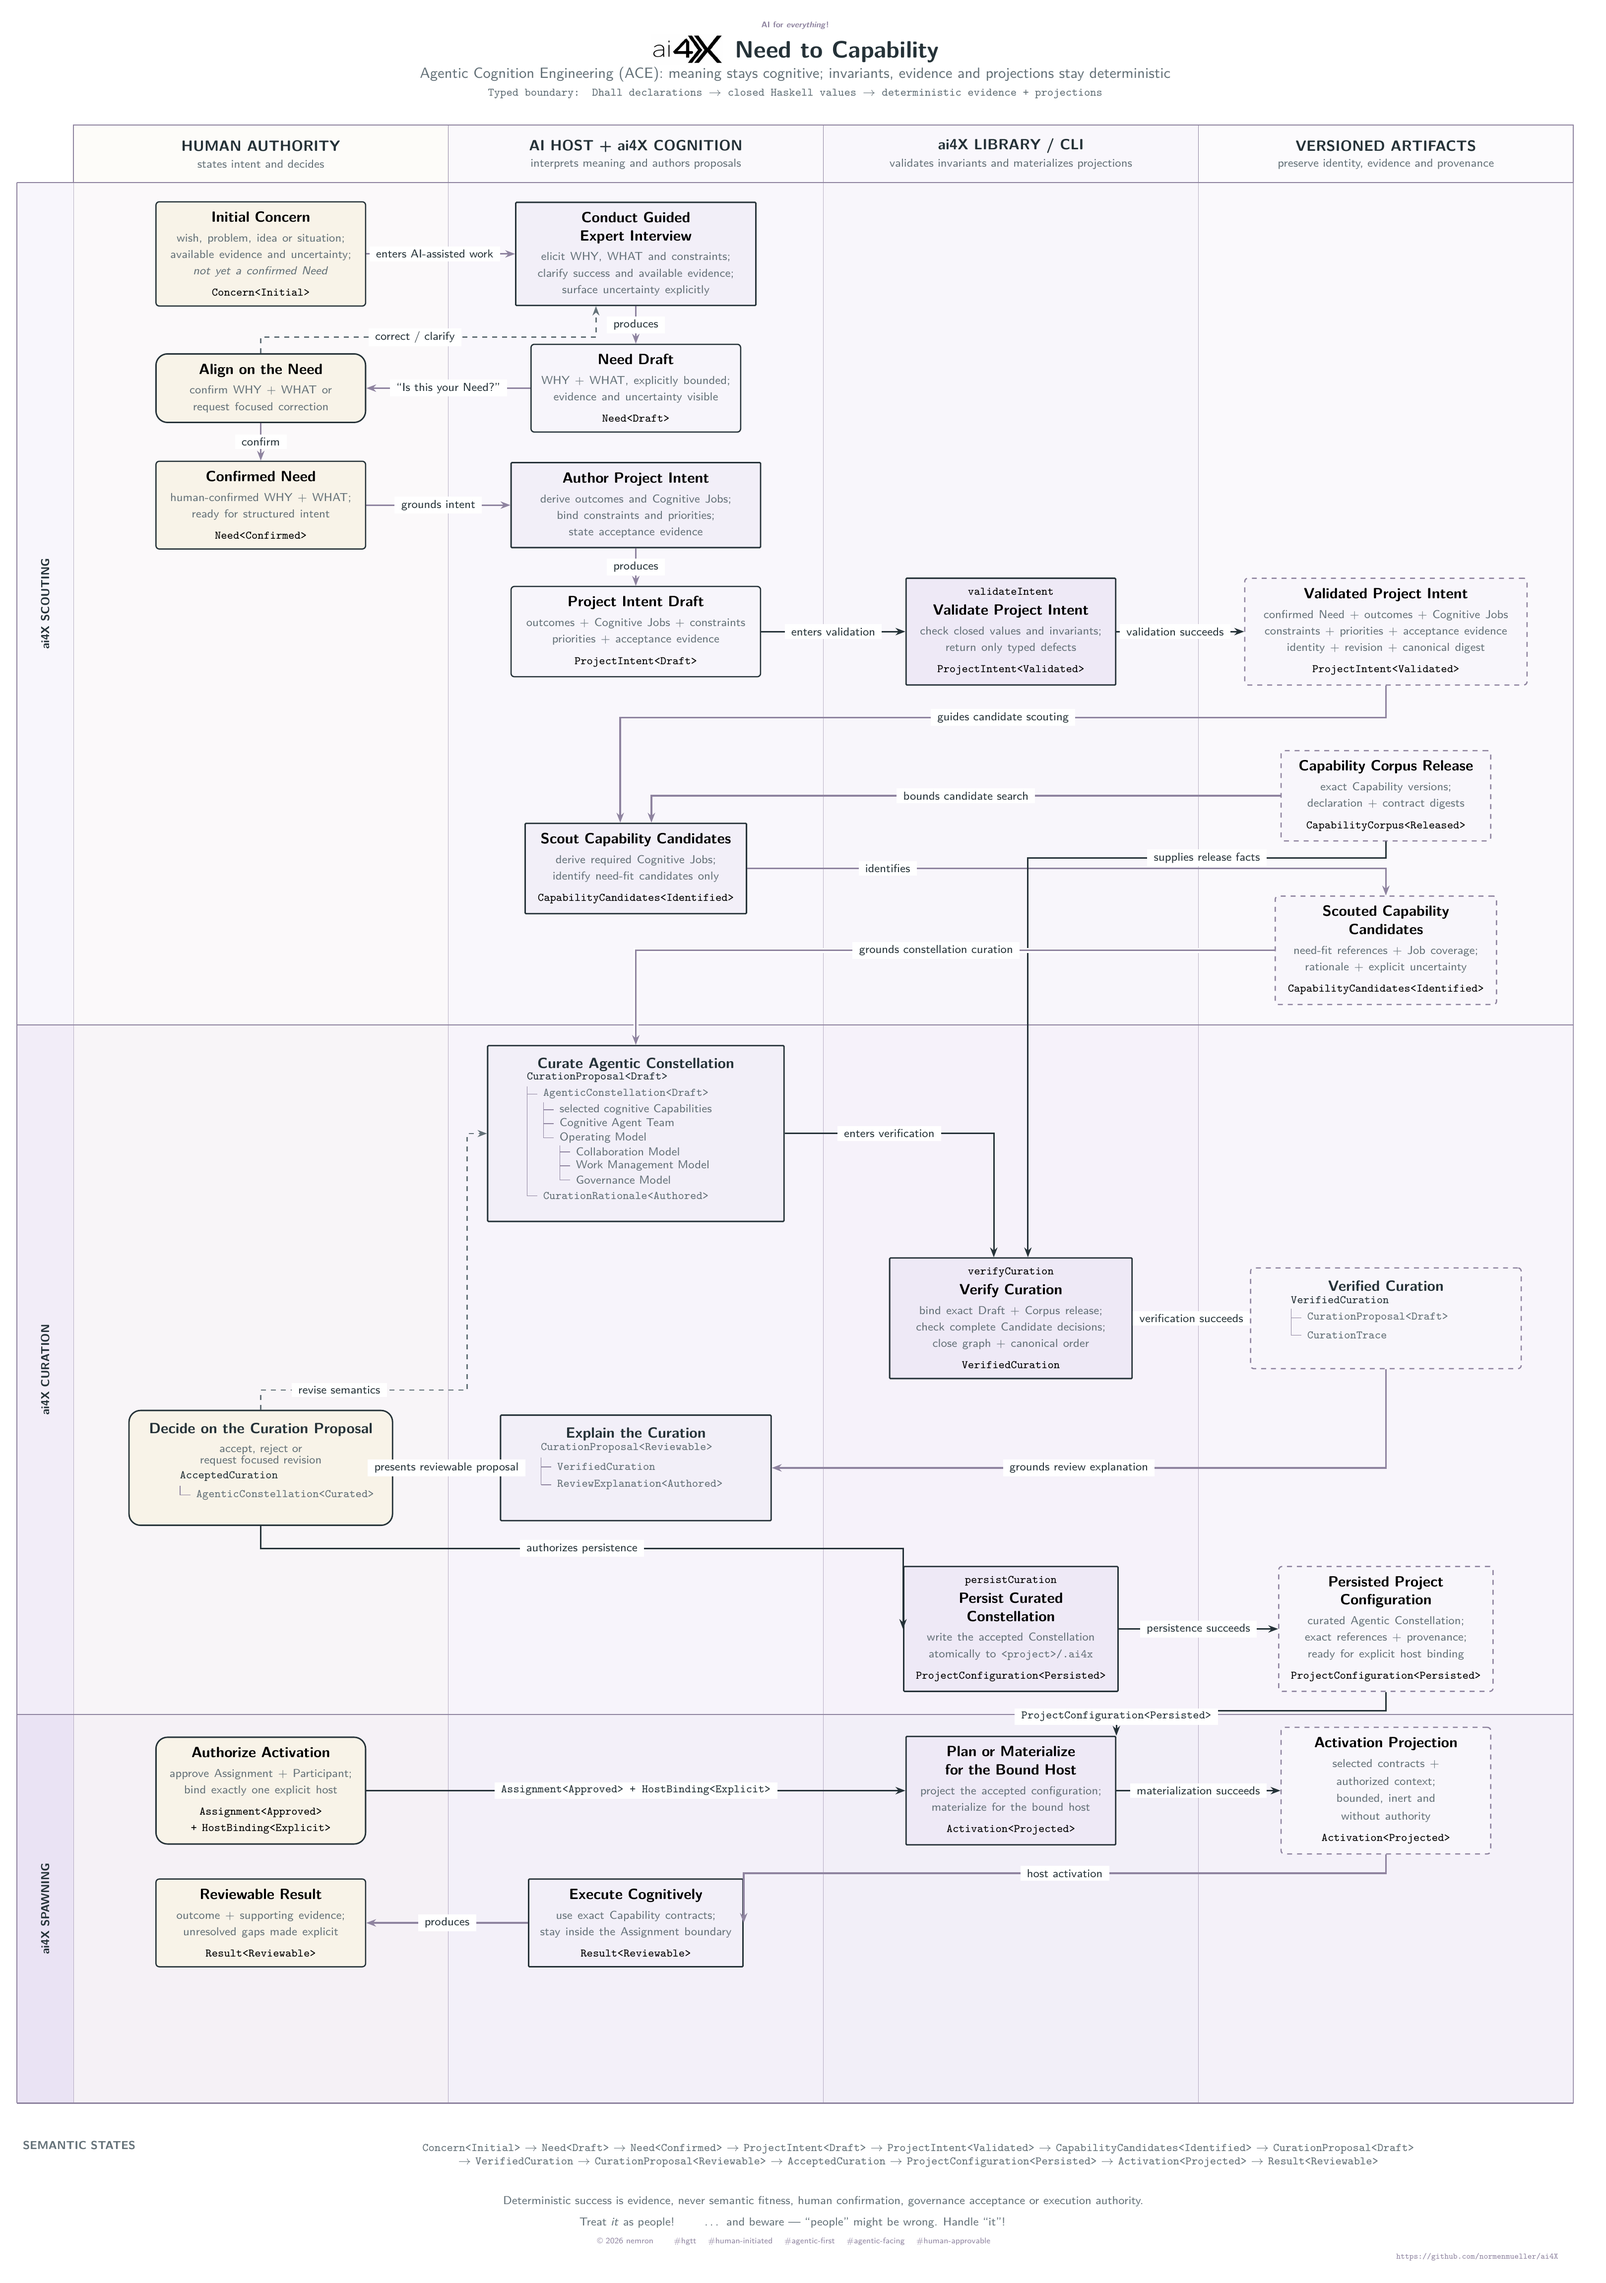
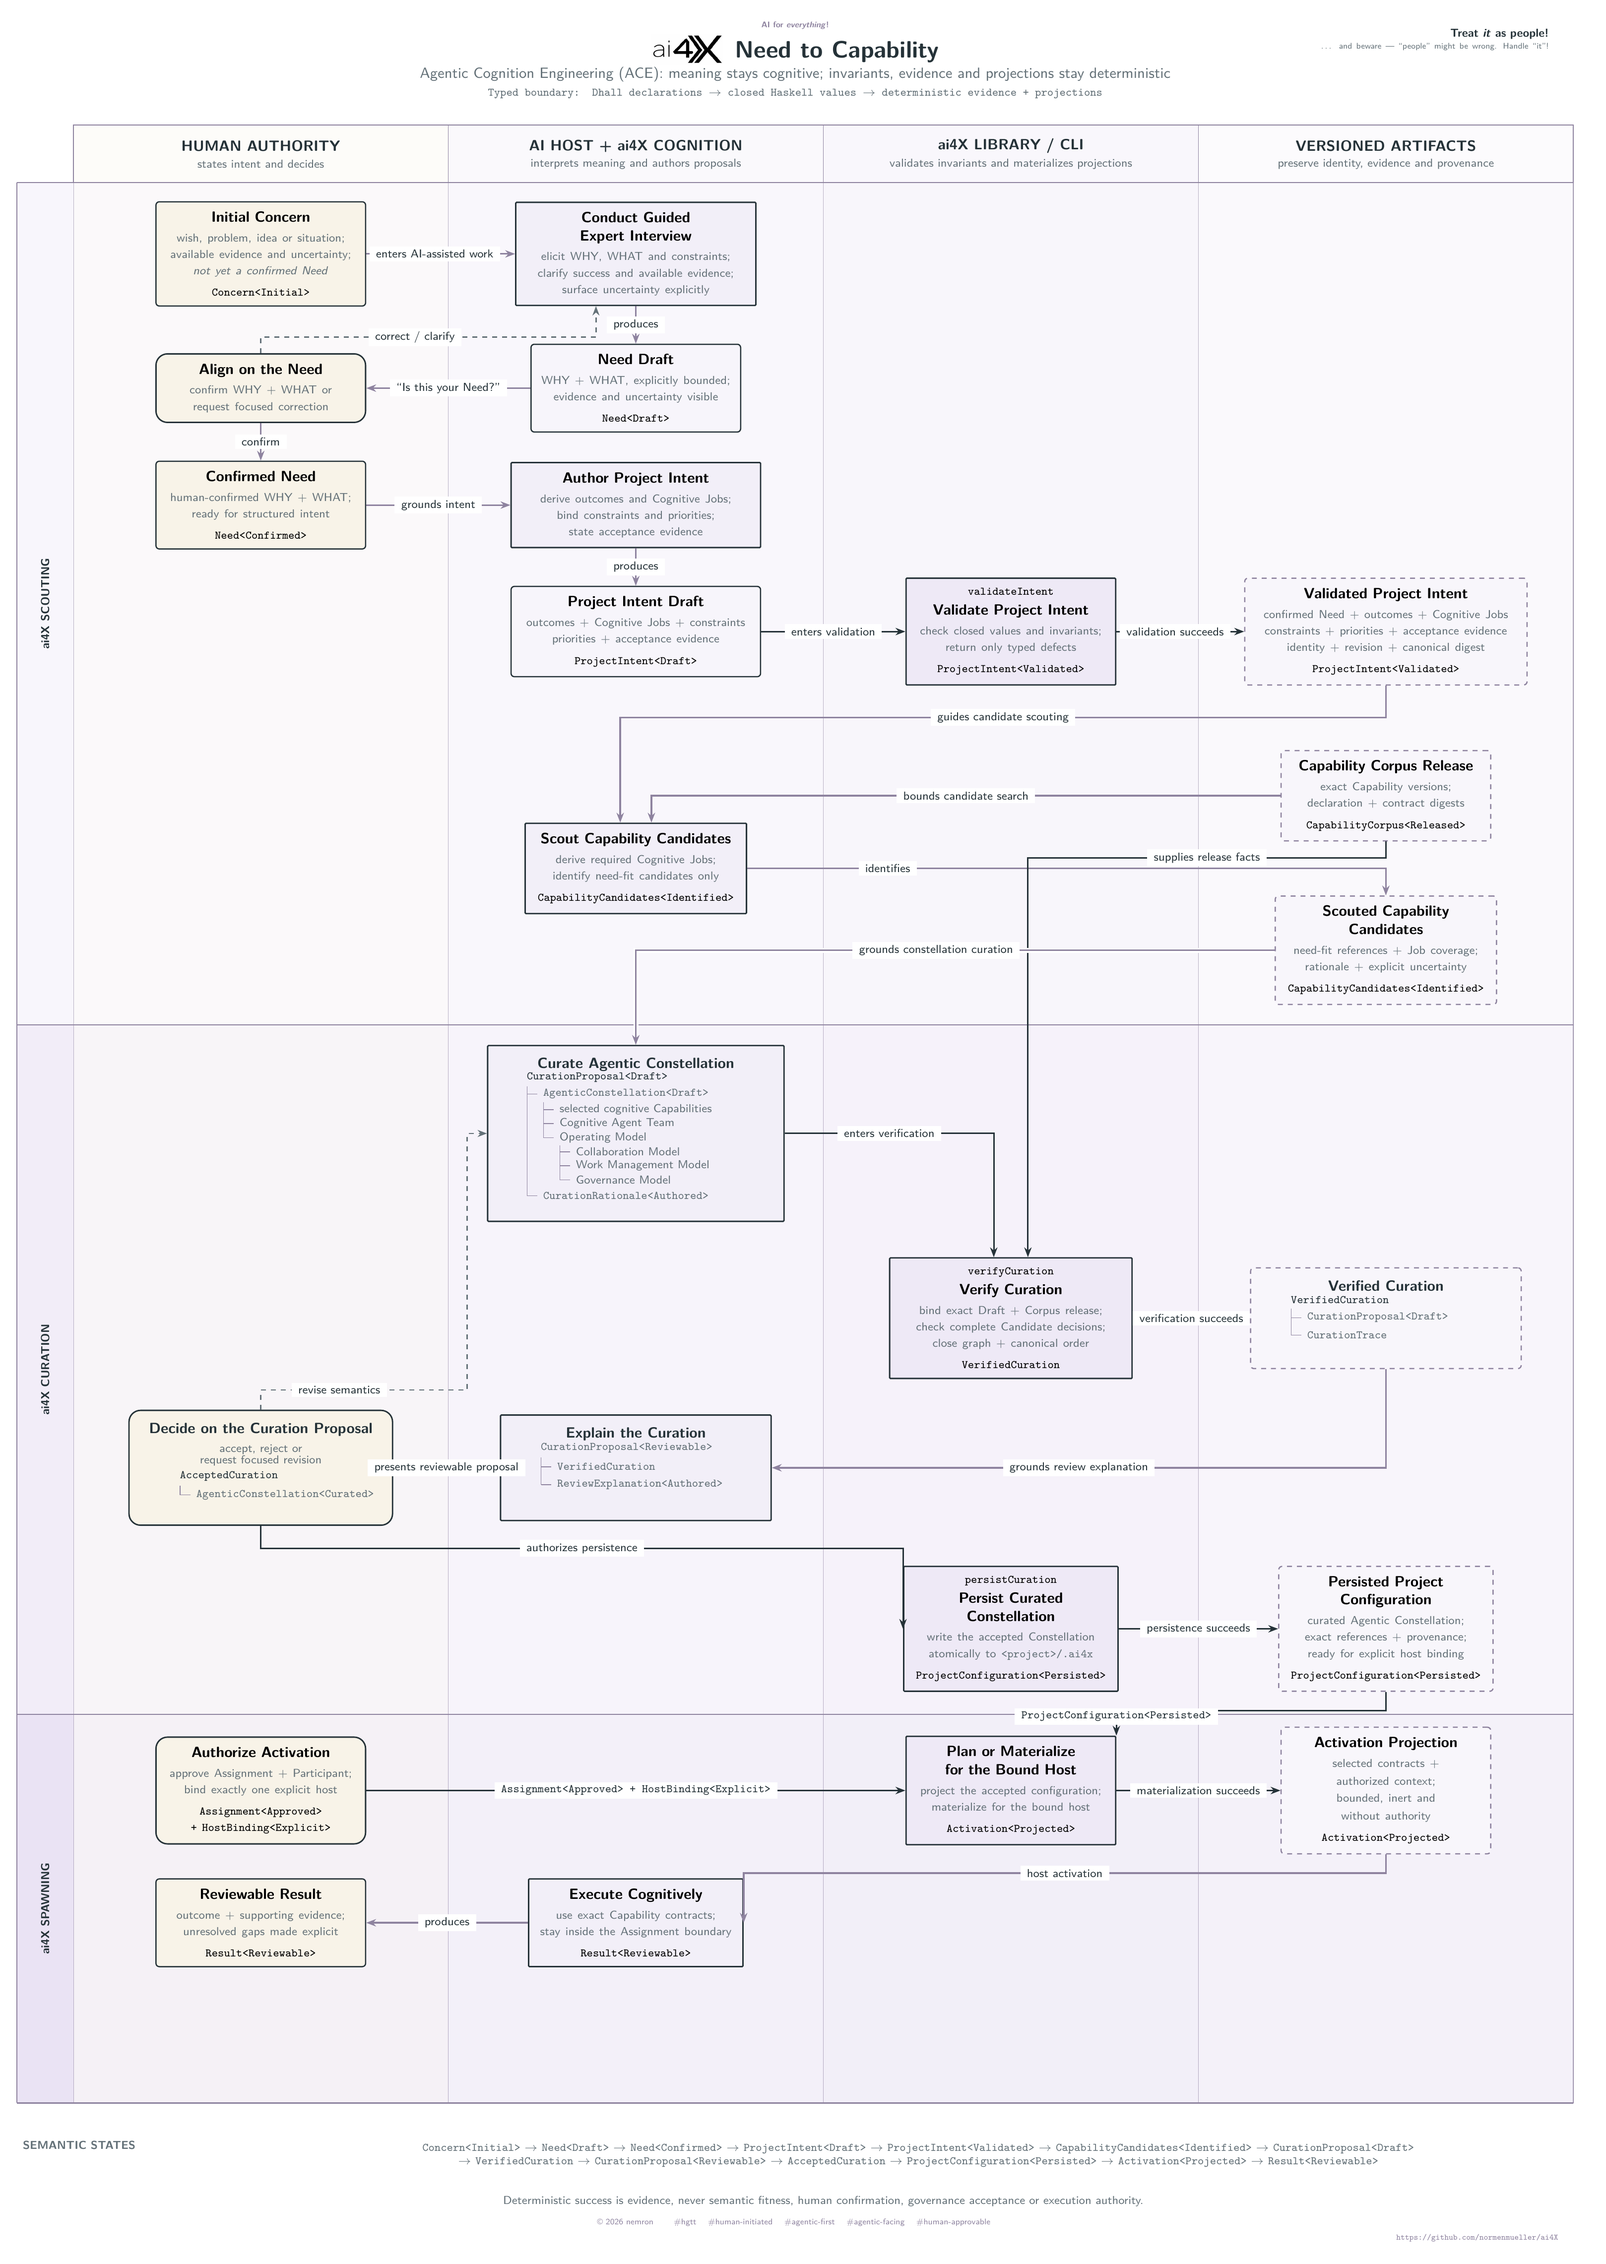
docs(diagram): position project maxim and preserve USP projection

diff --git a/doc/diagrams/need-to-capability.tex b/doc/diagrams/need-to-capability.tex
@@ -86,6 +86,16 @@
 
 \node[font=\sffamily\tiny\bfseries, text=aaccent] at (11.40,2.57)
   {AI for \textit{everything}!};
+\node[
+  font=\sffamily\scriptsize,
+  text=amuted,
+  text width=8.80cm,
+  align=right,
+  anchor=north east
+] at (27.60,2.62) {
+  \textcolor{aink}{\textbf{Treat \textit{it} as people!}}\\[-1pt]
+  {\tiny \ldots{} and beware --- ``people'' might be wrong. Handle ``it''!}
+};
 \node[inner sep=0pt, font=\sffamily\Large\bfseries, text=aink]
   at (11.40,2.07) {
     \raisebox{-0.13cm}{%
@@ -602,16 +612,12 @@
   Deterministic success is evidence, never semantic fitness, human confirmation,
   governance acceptance or execution authority.
 };
-\node[font=\sffamily\scriptsize, text=amuted, align=center] at (11.40,-44.30) {
-  Treat \textit{it} as people! \qquad
-  \ldots{} and beware --- ``people'' might be wrong. Handle ``it''!
-};
-\node[font=\sffamily\tiny, text=aaccent, align=center] at (11.40,-44.70) {
+\node[font=\sffamily\tiny, text=aaccent, align=center] at (11.40,-44.30) {
   \textcopyright{} 2026 nemron \qquad
   \#hgtt \quad \#human-initiated \quad \#agentic-first \quad
   \#agentic-facing \quad \#human-approvable
 };
-\node[font=\sffamily\tiny, text=aaccent, anchor=east] at (27.80,-45.03) {
+\node[font=\sffamily\tiny, text=aaccent, anchor=east] at (27.80,-44.63) {
   \texttt{https://github.com/normenmueller/ai4X}
 };
 

diff --git a/.ai4x/context/need-to-capability.md b/.ai4x/context/need-to-capability.md
@@ -117,6 +117,10 @@ The canonical Curation states and functions are owned only by
 - Prefer balanced manual line breaks and remove prose before shrinking type.
 - Use horizontal `ai4X SCOUTING`, `ai4X CURATION`, and `ai4X SPAWNING` phase
   bands while the vertical lanes retain execution ownership.
+- Do not add a separate USP box. Keep the ACE statement as the value
+  proposition, give the Dhall/Haskell boundary restrained typographic emphasis
+  as the formal core, and let the ownership lanes and Constellation tree show
+  the remaining product differentiation.
 - Preserve the accepted layout and spacing; render and inspect every approved
   point, but commit coherent groups rather than individual micro-edits.
 
